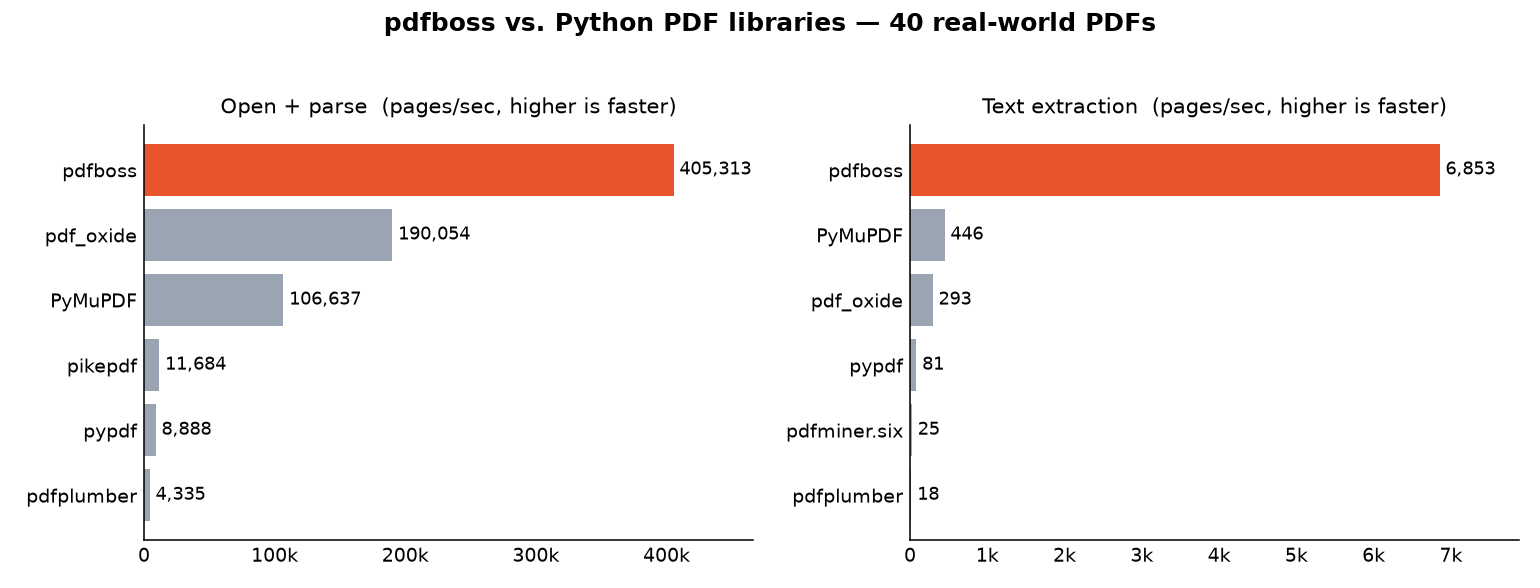
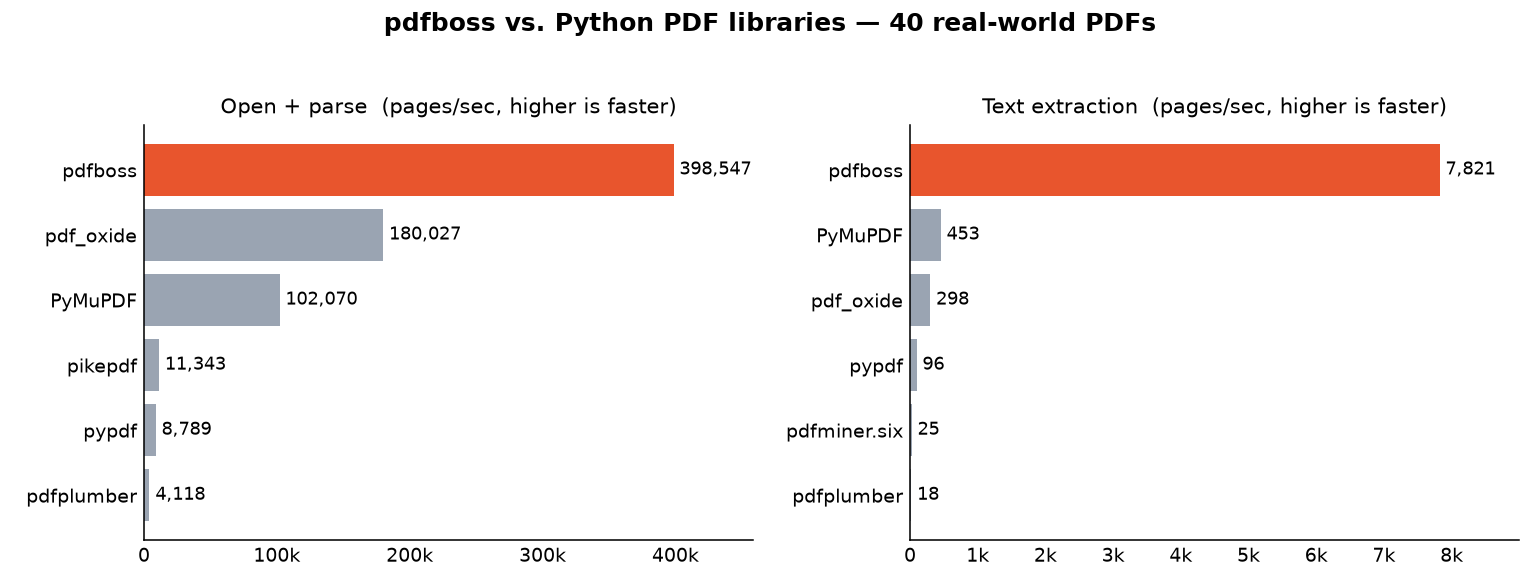
docs: re-measure the README benchmarks at 0.24.0
Wheel built from tip, same protocols and machine class as the 0.22
tables, all tables from one session: text 7,821 pages/s (~17x PyMuPDF),
open+parse 398,000 (~2.2x pdf_oxide), rendering 149.2 pages/s (~31%
ahead of pdfium, same 38-file certification and the same two glyph
exclusions), scans 67.5 pages/s (~19% ahead). Markdown quality
re-verified unchanged (NID 0.882 md / 0.868 text, 0.15s corpus time,
combined 0.820); the per-document NID comparison against pdf-inspector
recounted at 115/8/77. Fresh results jsons and chart included.

diff --git a/README.md b/README.md
@@ -27,7 +27,7 @@ Reading a PDF should not require a C library. pdfboss is a clean-room reader bui
 ## Highlights
 
 - **Clean-room engine**: implemented from the ISO 32000 specification in safe Rust; no C dependencies, no bindings to another engine.
-- **Fastest text extraction measured**: 6,850 pages/s over a 40-file real-world corpus, about 15× the C-backed PyMuPDF ([benchmarks](#benchmarks)).
+- **Fastest text extraction measured**: 7,821 pages/s over a 40-file real-world corpus, about 17× the C-backed PyMuPDF ([benchmarks](#benchmarks)).
 - **Its own codecs**: JPEG 2000, JBIG2, CCITT and ICC are decoded in-tree, implemented from their specifications, not linked in.
 - **Embedded-image extraction**: every image a page draws, at native size, alpha applied, from the CLI, Python and Rust ([example](#extract-embedded-images)).
 - **PDF creation**: document structs, a canvas painter and a COS writer with deterministic output; CommonMark+GFM composes into CSS-themed PDFs from the CLI, Python and Rust ([example](#create-pdfs)).
@@ -248,12 +248,12 @@ Against other Python PDF libraries over 40 real-world PDFs (pages/sec, higher is
   <img src="https://raw.githubusercontent.com/4thel00z/pdfboss/main/benchmarks/results.png" alt="pdfboss vs. Python PDF libraries" width="100%">
 </p>
 
-**pdfboss is the fastest library measured on both operations, including against the C-backed PyMuPDF and the Rust-backed pdf_oxide**: 6,850 pages/s extracting text against PyMuPDF's 450 (about 15×) and pdf_oxide's 290 (about 23×), and 405,000 pages/s opening + parsing against pdf_oxide's 190,000 (about 2.1×).
+**pdfboss is the fastest library measured on both operations, including against the C-backed PyMuPDF and the Rust-backed pdf_oxide**: 7,821 pages/s extracting text against PyMuPDF's 453 (about 17×) and pdf_oxide's 298 (about 26×), and 398,000 pages/s opening + parsing against pdf_oxide's 180,000 (about 2.2×).
 
 <details>
 <summary><strong>Method and fine print</strong></summary>
 
-Best-of-3 per file, aggregated over the files every library handled; measured with pdfboss 0.22.0 on an Apple M3 Pro, every table on this page from one session. The pure-Python readers are roughly 85× to 380× slower on extraction. Since 0.9.0, `doc.extract_text()` spreads pages across cores, which widened the gap over the sequential libraries from the 7× measured before that landed; since 0.19.0 every span also carries its style (font, weight, decorations, color), which costs the extraction rows a few percent against older tables. Lazy page-tree loading means opening a document reads only its declared page count instead of parsing every page dictionary up front. Opening is close to free, so the ratio says more about what the others do eagerly than about pdfboss. Rendering is compared in its own section below, restricted to the files pdfboss provably rasterizes completely: timing it against full renderers on the rest would credit it for work it skips.
+Best-of-3 per file, aggregated over the files every library handled; measured with pdfboss 0.24.0 on an Apple M3 Pro, every table on this page from one session. The pure-Python readers are roughly 80× to 430× slower on extraction. Since 0.9.0, `doc.extract_text()` spreads pages across cores, which widened the gap over the sequential libraries from the 7× measured before that landed; since 0.19.0 every span also carries its style (font, weight, decorations, color), which costs the extraction rows a few percent against older tables. Lazy page-tree loading means opening a document reads only its declared page count instead of parsing every page dictionary up front. Opening is close to free, so the ratio says more about what the others do eagerly than about pdfboss. Rendering is compared in its own section below, restricted to the files pdfboss provably rasterizes completely: timing it against full renderers on the rest would credit it for work it skips.
 
 Numbers are machine-dependent; reproduce with [`benchmarks/bench.py`](benchmarks/README.md).
 
@@ -276,7 +276,7 @@ On [opendataloader-bench](https://github.com/opendataloader-project/opendataload
 <details>
 <summary><strong>What the score is made of, and how it was measured</strong></summary>
 
-Per document, the plain-text output beats pdf-inspector's NID on 105 of the 200 files, ties on 23 and loses on 72. The losses concentrate in table regions, where structured output matches the ground truth more closely than flowed text can. On the benchmark's combined metric the Markdown adapter scores 0.820 (reading order 0.882, headings and lists 0.702, table structure 0.622). It detects tables from column gaps and from drawn borders, so bordered grids and boxed lists without column gaps are found too. Two-column layouts are read column-major. Justified text keeps its word spacing. Ligatures and small-caps variants decode through the full Adobe Glyph List conventions.
+Per document, the plain-text output beats pdf-inspector's NID on 115 of the 200 files, ties on 8 and loses on 77 (at the table's three-decimal precision). The losses concentrate in table regions, where structured output matches the ground truth more closely than flowed text can. On the benchmark's combined metric the Markdown adapter scores 0.820 (reading order 0.882, headings and lists 0.702, table structure 0.622). It detects tables from column gaps and from drawn borders, so bordered grids and boxed lists without column gaps are found too. Two-column layouts are read column-major. Justified text keeps its word spacing. Ligatures and small-caps variants decode through the full Adobe Glyph List conventions.
 
 Quality rows come from the benchmark's own evaluator over all 200 documents. The two pdfboss timings were measured together in one session on an Apple M3 Pro under the benchmark's protocol: median of five single-process runs after a warm-up, wheel built from main. pdf-inspector was measured the same way on the same machine in an earlier session. The other engines' timings are the ones [published with the corpus](https://github.com/firecrawl/opendataloader-bench/tree/abi/pdf-parser-benchmark-results) from an Apple M4 Pro. Read them as order-of-magnitude context, not a same-machine race.
 
@@ -288,12 +288,12 @@ A renderer that skips work looks fast, so every file is certified before the sto
 
 | Library | pages/sec |
 |---|--:|
-| pdfboss | 144.5 |
-| pypdfium2 | 121.3 |
-| pdfplumber (via pdfium) | 102.0 |
-| PyMuPDF | 89.5 |
+| pdfboss | 149.2 |
+| pypdfium2 | 113.5 |
+| pdfplumber (via pdfium) | 99.7 |
+| PyMuPDF | 89.4 |
 
-pdfboss rasterizes the mixed corpus fastest, about 19% ahead of pdfium itself, with no C in it.
+pdfboss rasterizes the mixed corpus fastest, about 31% ahead of pdfium itself, with no C in it.
 
 <details>
 <summary><strong>Certification and stability details</strong></summary>
@@ -312,12 +312,12 @@ Scans are the other half of the world's PDFs: one full-page bilevel image per pa
 
 | Library | pages/sec | Ink on page 1 |
 |---|--:|--:|
-| pdfboss | 65.4 | 4.71% |
-| pypdfium2 | 57.4 | 4.85% |
+| pdfboss | 67.5 | 4.71% |
 | pdfplumber (via pdfium) | 56.5 | 4.87% |
-| PyMuPDF | 54.6 | 4.82% |
+| pypdfium2 | 56.4 | 4.85% |
+| PyMuPDF | 55.4 | 4.82% |
 
-**pdfboss is the fastest of the four, about 14% ahead of the C-backed renderers**, and the only one of them with no C in it.
+**pdfboss is the fastest of the four, about 19% ahead of the C-backed renderers**, and the only one of them with no C in it.
 
 <details>
 <summary><strong>Where the time goes, and why the ink column matters</strong></summary>
